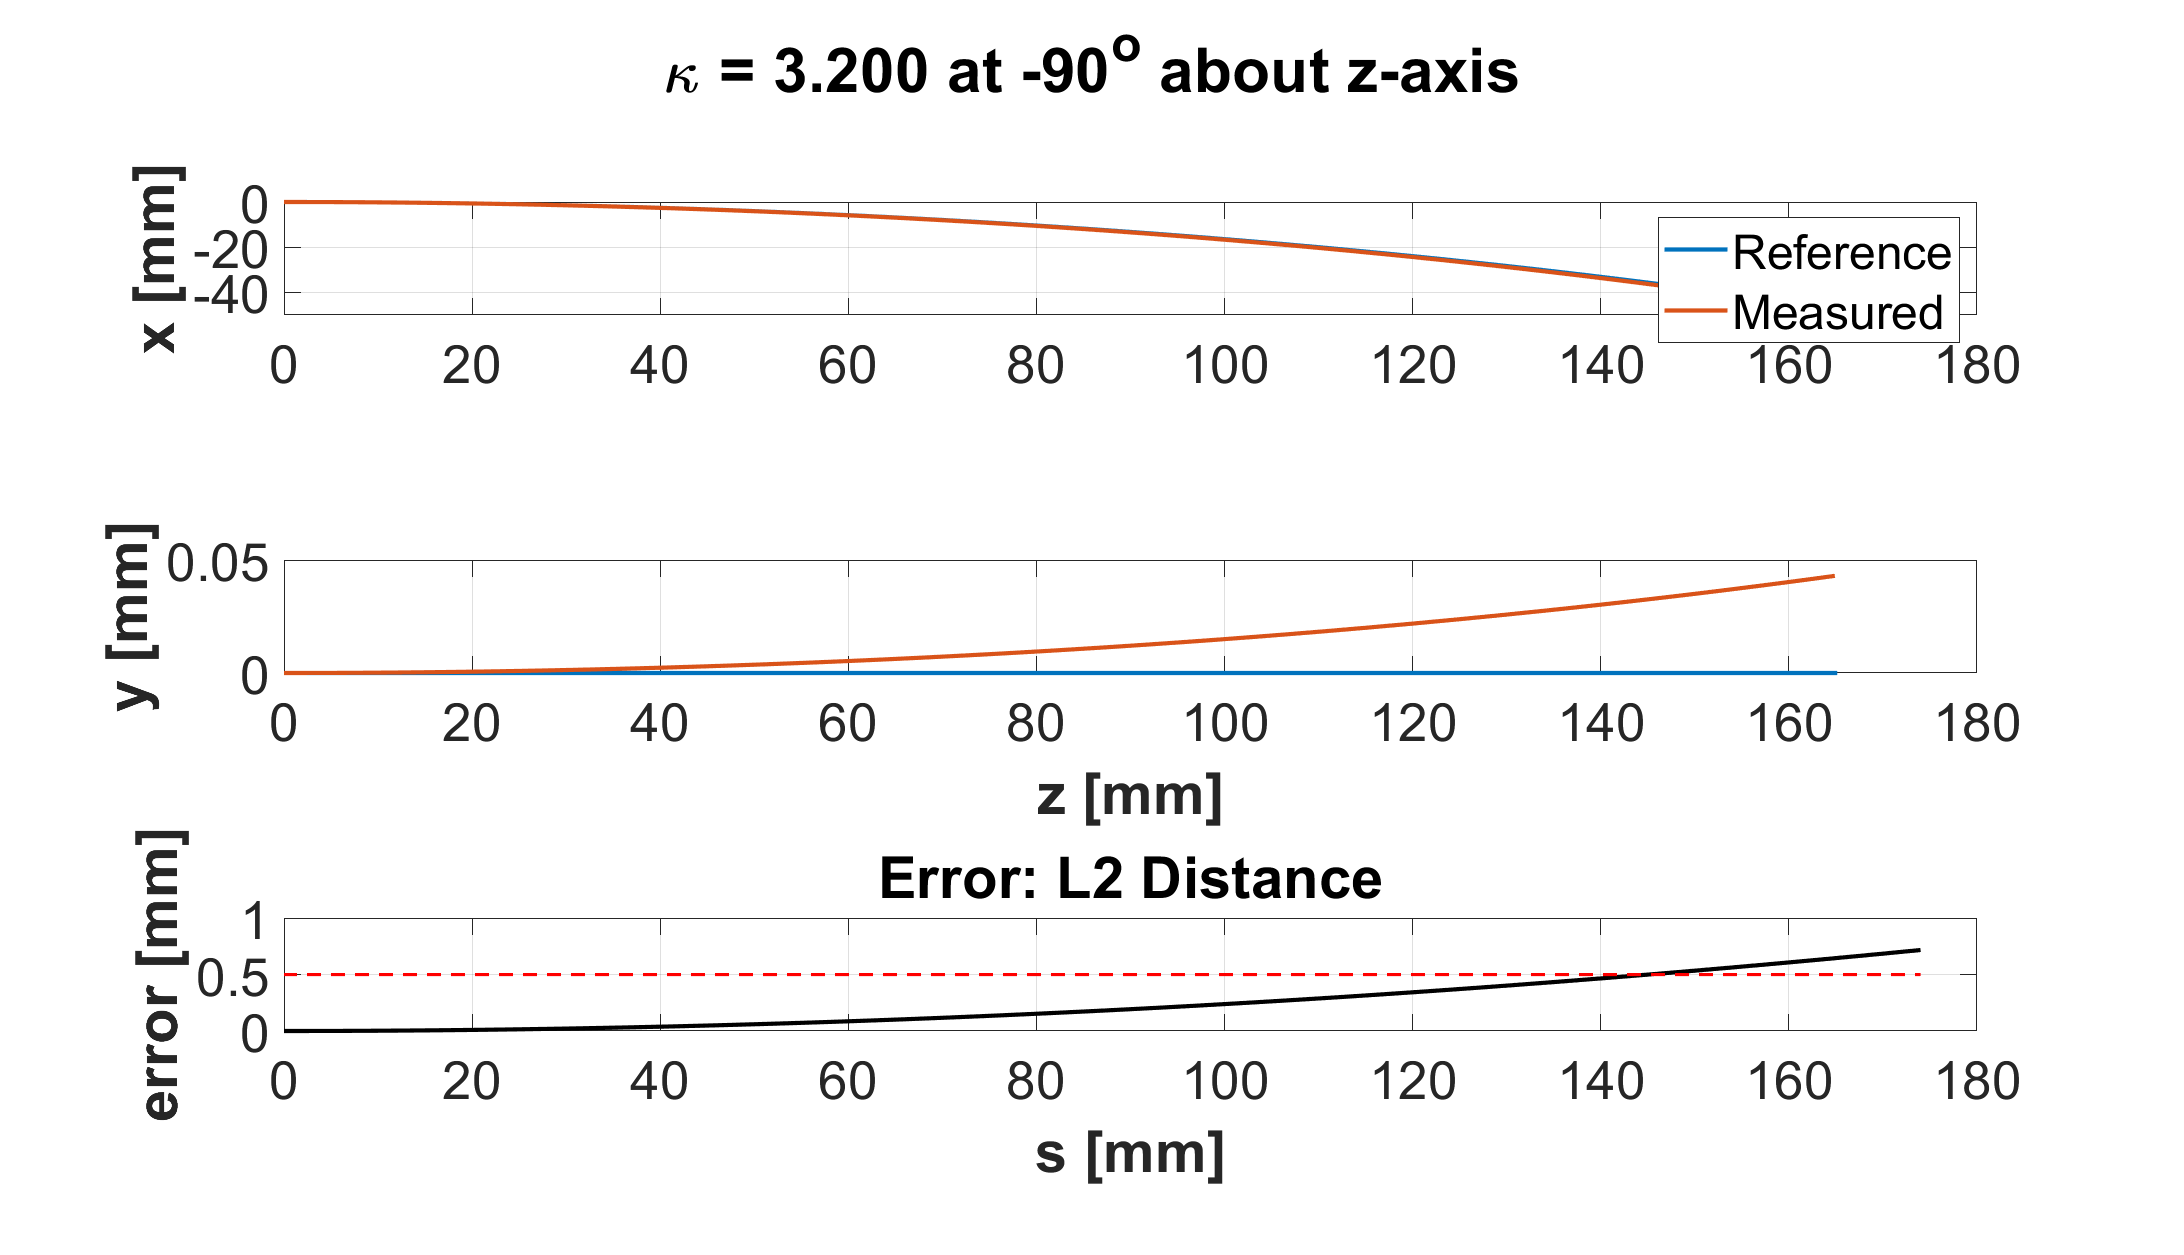
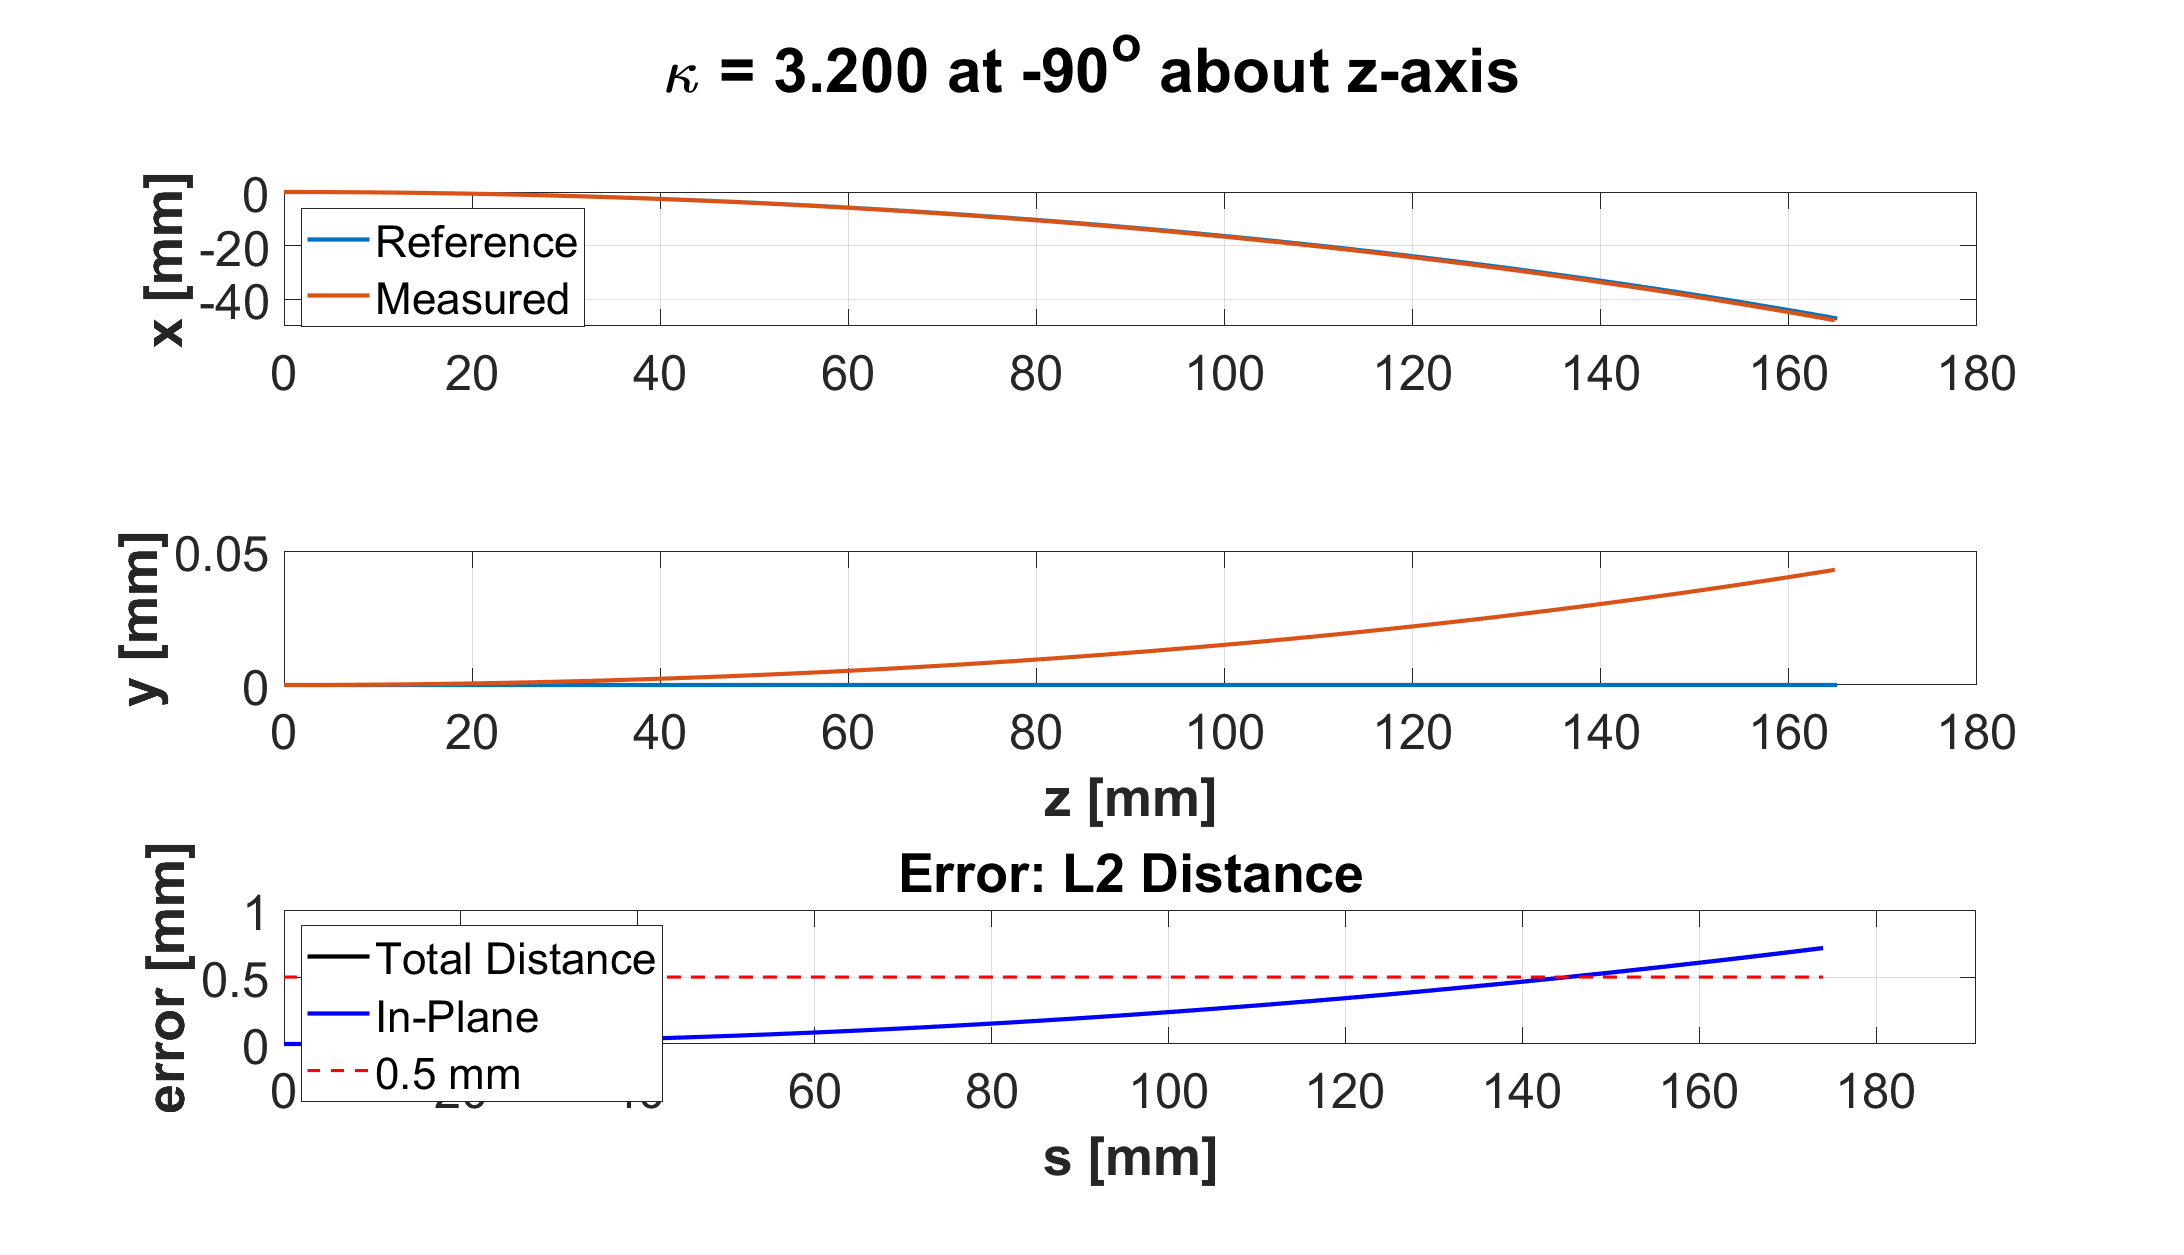
Added weighting feature to FBGNeedle file and ran optimization

diff --git a/src/FBGNeedle.py b/src/FBGNeedle.py
@@ -16,7 +16,7 @@ class FBGNeedle( object ):
     '''
 
     def __init__( self, length: float, num_channels: int, sensor_location: list = [],
-                  calibration_mats: dict = {} ):
+                  calibration_mats: dict = {}, weights: dict = {} ):
         '''
         Constructor
         
@@ -37,18 +37,12 @@ class FBGNeedle( object ):
             raise ValueError( "'num_channels' must be > 0." )
         
         # if
+        
         if len( sensor_location ) > 0:
             sensor_loc_invalid = [loc > length or loc < 0 for loc in sensor_location]
             if any( sensor_loc_invalid ):
                 raise ValueError( "all sensor locations must be in [0, 'length']" )
             
-            # if
-            if calibration_mats:
-                if not set( calibration_mats.keys() ).issubset( set( sensor_location ) ):
-                    raise IndexError( "There is a mismatch in the calibration matrices to sensor locations." )
-                    
-                # if
-            # if
         # if
         
         # property set-up (None so that they are set once)
@@ -56,12 +50,14 @@ class FBGNeedle( object ):
         self._num_channels = None
         self._sensor_location = None
         self._cal_matrices = {}
+        self._weights = {}
         
         # assignments
         self.length = length
         self.num_channels = num_channels
         self.sensor_location = sensor_location        
         self.cal_matrices = calibration_mats
+        self.weights = weights
         
     # __init__
     
@@ -86,6 +82,11 @@ class FBGNeedle( object ):
             msg += "\nCalibration Matrices:"
             for loc, cal_mat in self.cal_matrices.items():
                 msg += "\n\t{}: ".format( loc ) + str( cal_mat.tolist() )
+                
+                if self.weights:
+                    msg += " | weight: " + str( self.weights[loc] )
+                    
+                # if
             
             # for
             
@@ -145,8 +146,7 @@ class FBGNeedle( object ):
             # if
             
             else:
-#                 self._sensor_location = sorted( list( set( sensor_locations ) ), reverse = True )  # remove duplicates and reorder
-                self._sensor_location = np.unique(sensor_locations).tolist() #
+                self._sensor_location = np.unique( sensor_locations ).tolist()  #
             
             # else 
         # if
@@ -192,6 +192,49 @@ class FBGNeedle( object ):
             
         # for          
     # cal_matrices: setter
+    
+    @property
+    def weights( self ):
+        return self._weights
+    
+    # weights
+    
+    @weights.setter
+    def weights( self, weights: dict ):
+        for key, weight in weights.items():
+            # get the sensor location
+            if isinstance( key, str ):
+                loc = self.aa_loc( key )
+                
+            # if
+            
+            elif isinstance( key, int ):
+                # check if it is alrady a sensor location
+                if key in self.sensor_location:
+                    loc = key
+                
+                # if
+                
+                # if not, check to see if it is an AA index [1, #AA]
+                elif key in range( 1, self.num_aa + 1 ):
+                    loc = self.sensor_location[key - 1]
+                    
+                # elif
+                    
+            # elif
+            
+            else:
+                raise ValueError( "'{}' is not recognized as a valid key.".format( key ) )
+            
+            # else
+            
+            # add the weight to weights
+            self._weights[loc] = weight
+            
+        # for
+    # weights setter
+    
+######################## FUNCTIONS ######################################
     
     def aa_cal ( self, aa_num: str ):
         """ Function to get calibration matrix from AAX indexing """
@@ -258,8 +301,24 @@ class FBGNeedle( object ):
             
         # else
         
+        if "weights" in data.keys():
+            weights = {}
+            for loc, weight in data['weights'].items():
+                if isinstance( loc, str ):
+                    loc = int( "".join( filter( str.isdigit, loc ) ) )
+                    
+                weights[loc] = int( weight )    
+            # for
+        # if
+        
+        else: 
+            weights = {}
+            
+        # else
+            
         # instantiate the FBGNeedle class object
-        fbg_needle = FBGNeedle( data['length'], data['# channels'], sensor_locations, cal_mats )
+        fbg_needle = FBGNeedle( data['length'], data['# channels'], sensor_locations,
+                                cal_mats, weights )
         
         # return the instantiation
         return fbg_needle
@@ -295,7 +354,14 @@ class FBGNeedle( object ):
                 data["Calibration Matrices"][k] = cal_mat.tolist()
                 
             # for
-            
+        # if
+        
+        if self.weights:
+            data['weights'] = {}
+            for k, weight in self.weights.items():
+                data['weights'][k] = weight
+                
+            # for
         # if
         
         # write the data
@@ -308,15 +374,17 @@ class FBGNeedle( object ):
     
     def set_calibration_matrices( self, cal_mats: dict ):
         """ This function is to set the calibration matrices after instantiation """
-        # data checking
-        if not set( cal_mats.keys() ).issubset( set( self.sensor_location ) ):
-            raise IndexError( "There is a mismatch in the calibration matrices to sensor locations." )
-            
-        # if
         
         self.cal_matrices = cal_mats
         
     # set_calibration_matrices
+    
+    def set_weights( self, weights: dict ):
+        """ This function is to set the weighting of their measurements """
+        
+        self.weights = weights
+        
+    # set_weights
     
 # class: FBGNeedle
 
@@ -326,6 +394,7 @@ if __name__ == "__main__" or False:
     
     # directory to save in
     directory = "../FBG_Needle_Calibration_Data/needle_3CH_4AA/"
+    directory = './'
     save_bool = True
     
     # needle parameters
@@ -333,12 +402,25 @@ if __name__ == "__main__" or False:
     num_chs = 3
     aa_locs_tip = np.cumsum( [10, 20, 35, 35] )[::-1]
     aa_locs = ( length - aa_locs_tip ).tolist()
-    print("locations:", aa_locs)
-    cal_mats = None
+    
+    AA_list = ['AA' + str( i + 1 ) for i in range( len( aa_locs ) )]
+    
+    print( "locations:", aa_locs )
+    cal_mats = {}
+    weights = {}
+    
+    for i in range(len(AA_list)):
+        aa_loc = AA_list[i]
+        cal_mats[aa_loc] = i * np.ones( ( 3, 2 ) )
+        weights[aa_loc] = i
+        
+    # for
     
     # create and save the new 
-    test = FBGNeedle( length, num_chs, aa_locs )
-    print( test )
+    test = FBGNeedle( length, num_chs, aa_locs, cal_mats )
+    print( 'before set:', test )
+    test.weights = weights
+    print( 'after set', test )
     
     if save_bool:
         save_file = directory + "needle_params.json"
@@ -349,9 +431,9 @@ if __name__ == "__main__" or False:
         print( "after load" )
         print( test2 )
         
-        for i in range(test2.num_aa):
-            s = "AA" + str(i + 1)
-            print(s, ":", test2.aa_loc(s))
+        for i in range( test2.num_aa ):
+            s = "AA" + str( i + 1 )
+            print( s, ":", test2.aa_loc( s ) )
             
         # for
         

diff --git a/src/matlab_scripts/optimal_sensor_weights.m b/src/matlab_scripts/optimal_sensor_weights.m
@@ -1,0 +1,107 @@
+%% optimal_sensor_weights.m
+%
+% this is a script to determine the optimal sensor weighting for the 
+% FBG sensors by solving a least squares problem
+%
+% - written by: Dimitri Lezcano
+
+%% Set-up 
+% options
+save_bool = false;
+
+% python set-up
+if ispc % windows file system
+    pydir = "..\";
+    
+else
+    pydir = "../";
+    
+end
+
+if count(py.sys.path, pydir) == 0
+    insert(py.sys.path, int32(0), pydir);
+end
+
+% file set-up
+directory = "../../FBG_Needle_Calibration_Data/needle_3CH_4AA/";
+fbgneedle_param = directory + "needle_params-Jig_Calibration_08-05-20.json";
+fbgneedle_param_out = strrep(fbgneedle_param, '.json', '_weighted.json');
+
+datadir = directory + "Jig_Calibration_08-05-20/"; % calibration data
+% datadir = directory + "Validation_Jig_Calibration_08-19-20/"; % validation data
+data_mats_file = datadir + "Data Matrices_new.xlsx";
+data_mats_proc_file = strrep(data_mats_file, '.xlsx', '_proc.xlsx');
+fig_save_file = datadir + "Jig_Shape_fit";
+
+% paramteter set-up
+jig_offset = 26.0; % the jig offset of full insertion
+AA_weights = [];% [1, 0.9, 0.3, 0.0]; % [AA1, AA2, AA3, AA4] reliability weighting
+if ~isempty(AA_weights)
+    fig_save_file = fig_save_file + "_weighted";
+    
+end
+
+%% Load FBGNeedle python class
+fbg_needle = py.FBGNeedle.FBGNeedle.load_json(fbgneedle_param);
+disp("FBGNeedle class loaded.")
+
+% channel list
+ch_list = 1:double(fbg_needle.num_channels);
+CH_list = "CH" + ch_list;
+aa_list = 1:double(fbg_needle.num_aa);
+AA_list = "AA" + aa_list; % the "AAX" string version
+
+%% load the processed data matrices
+data_mats = struct();
+for AA_i = AA_list
+    data_mats.(AA_i) = readtable(data_mats_proc_file, 'Sheet', AA_i, ...
+        'PreserveVariableNames', false, 'ReadRowNames', true); % remove the first column (exp #)
+    disp(AA_i + " loaded.");
+end
+disp(' ');
+
+%% Consolidate the readings into one W data matrix
+% get the actual curvature we are trying to fit
+W_act_aai = data_mats.(AA_i)(:, ["CurvatureX", "CurvatureY"]).Variables;
+w_act = reshape(W_act_aai', [], 1);
+
+% get the W data matrix
+W = zeros(length(w_act), length(AA_list)); % the measurement array
+for i = 1:length(AA_list)
+    AA_i = AA_list(i);
+    
+    % get the data matrices for this AA
+    W_meas_aai = data_mats.(AA_i)(:, ["PredCurvX", "PredCurvY"]).Variables;
+    
+    % add it to the measurement array
+    W(:, i) = reshape(W_meas_aai', [], 1);
+    
+    
+end
+
+% append the 'sum(weights) = 1' constraint ( eta := weights)
+W = [W; ones(1, size(W, 2))];
+w_act = [w_act; 1];
+
+%% perform the non-negative least squares fit
+weights = lsqnonneg(W, w_act);
+weights = weights./sum(weights); % normalize just in case
+
+disp("Weights:");
+disp([AA_list; reshape(weights, 1, [])] )
+
+disp('Total error');
+disp(norm((W * weights - w_act)))
+
+%% save the weights to the fbg_needle 
+py_dict_weights = py.dict();
+for i=1:length(AA_list)
+    py_dict_weights{AA_list(i)} = weights(i);
+    
+end
+
+fbg_needle.set_weights(py_dict_weights);
+fbg_needle.save_json(fbgneedle_param_out);
+fprintf('Saved json parmater file: %s\n', fbgneedle_param_out);
+
+

diff --git a/src/matlab_scripts/jig_shape_validation.m b/src/matlab_scripts/jig_shape_validation.m
@@ -11,7 +11,14 @@ set(0,'DefaultAxesFontSize',24);
 save_bool = true;
 
 % python set-up
-pydir = "../";
+if ispc % windows file system
+    pydir = "..\";
+    
+else
+    pydir = "../";
+    
+end
+
 if count(py.sys.path, pydir) == 0
     insert(py.sys.path, int32(0), pydir);
 end
@@ -19,6 +26,7 @@ end
 % file set-up
 directory = "../../FBG_Needle_Calibration_Data/needle_3CH_4AA/";
 fbgneedle_param = directory + "needle_params-Jig_Calibration_08-05-20.json";
+% fbgneedle_param_weight = strrep(fbgneedle_param, '.json', '_weighted.json'); % weighted fbg parmeters
 
 datadir = directory + "Jig_Calibration_08-05-20/"; % calibration data
 % datadir = directory + "Validation_Jig_Calibration_08-19-20/"; % validation data
@@ -28,7 +36,7 @@ fig_save_file = datadir + "Jig_Shape_fit";
 
 % paramteter set-up
 jig_offset = 26.0; % the jig offset of full insertion
-AA_weights = [1, 0.9, 0.3, 0.0]; % [AA1, AA2, AA3, AA4] reliability weighting
+AA_weights = [ 0.3424, 0.6576, 0, 0 ]; % [AA1, AA2, AA3, AA4] reliability weighting
 if ~isempty(AA_weights)
     fig_save_file = fig_save_file + "_weighted";
     
